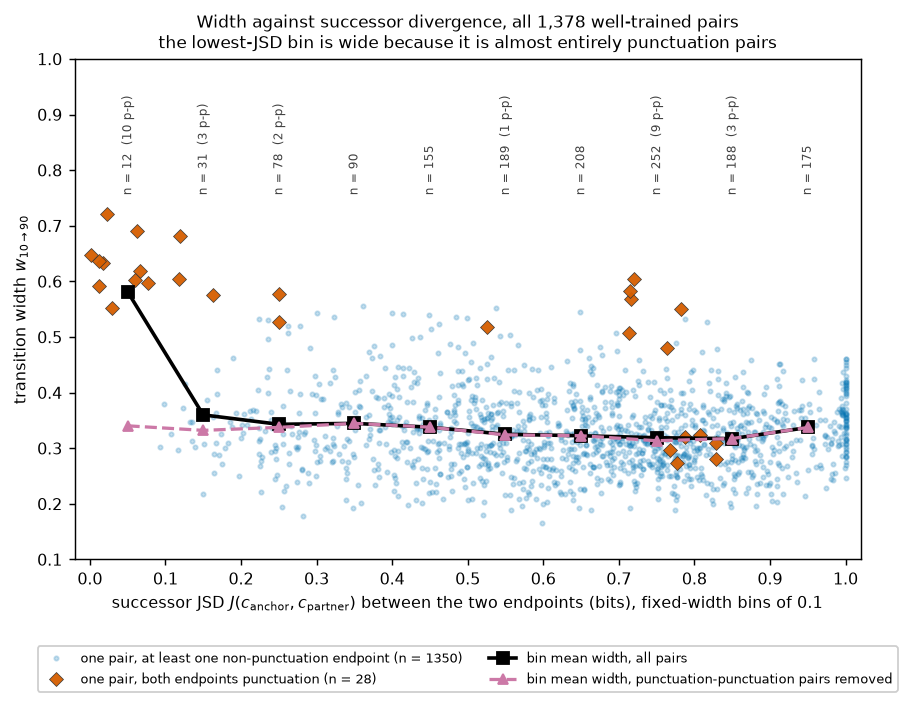
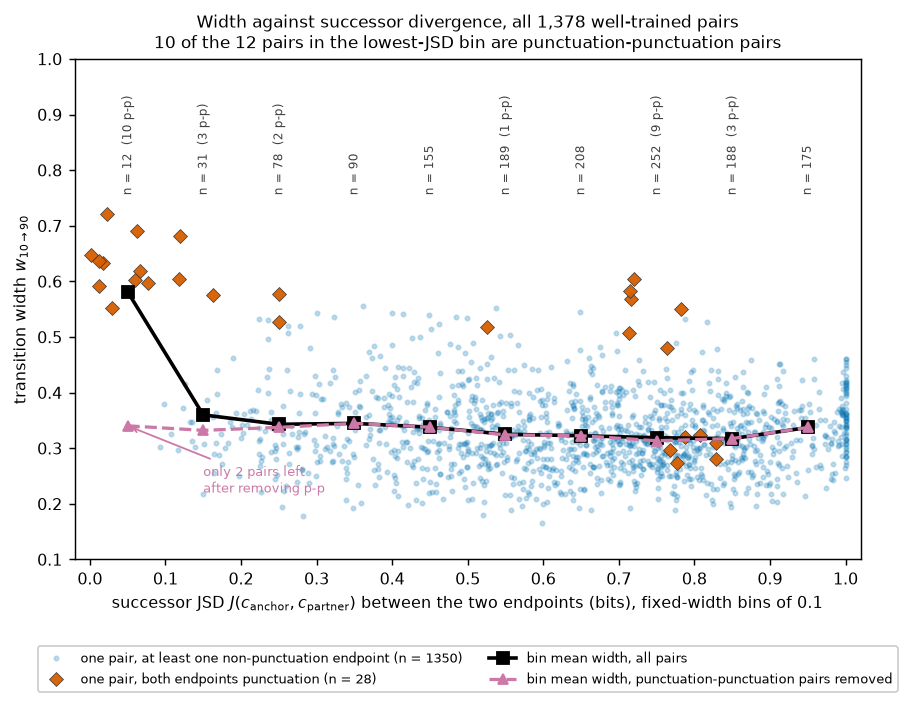
[dir24_char_gpt_groups_and_successor_jsd] autoloop iter 2026-09-09 16:39:56

Changed region(s): [[0.1846, 0.0312, 0.8615, 0.0936], [0.2154, 0.6553, 0.3385, 0.7177], [0.1846, 0.6241, 0.2154, 0.6553]]

diff --git a/dir24_char_gpt_groups_and_successor_jsd/experiments/analysis.py b/dir24_char_gpt_groups_and_successor_jsd/experiments/analysis.py
@@ -496,6 +496,12 @@ def main():
     for c, r in zip(ctr, fixed):
         lab = f"n = {r['n']}" + (f"  ({r['n_punct_punct']} p-p)" if r["n_punct_punct"] else "")
         ax.text(c, 0.755, lab, ha="center", va="bottom", fontsize=6.8, rotation=90, color="0.25")
+        n_ex = r["n"] - r["n_punct_punct"]
+        if r["mean_w_excl_pp"] is not None and n_ex <= 5:
+            ax.annotate(f"only {n_ex} pairs left\nafter removing p-p",
+                        xy=(c, r["mean_w_excl_pp"]), xytext=(c + 0.10, r["mean_w_excl_pp"] - 0.12),
+                        fontsize=7, color=CVD[2], ha="left",
+                        arrowprops=dict(arrowstyle="->", color=CVD[2], lw=1.0))
     ax.set_xticks(np.round(np.arange(0, 1.001, 0.1), 1))
     ax.set_xlim(-0.02, 1.02)
     ax.set_ylim(0.10, 1.00)
@@ -503,7 +509,7 @@ def main():
                   "endpoints (bits), fixed-width bins of 0.1")
     ax.set_ylabel("transition width $w_{10\\to90}$")
     ax.set_title("Width against successor divergence, all 1,378 well-trained pairs\n"
-                 "the lowest-JSD bin is wide because it is almost entirely punctuation pairs",
+                 "10 of the 12 pairs in the lowest-JSD bin are punctuation-punctuation pairs",
                  fontsize=9.5)
     ax.legend(fontsize=7.4, loc="upper center", bbox_to_anchor=(0.5, -0.16), ncol=2,
               framealpha=.95)

diff --git a/dir24_char_gpt_groups_and_successor_jsd/REPORT.md b/dir24_char_gpt_groups_and_successor_jsd/REPORT.md
@@ -2,32 +2,31 @@
 
 ## Summary
 
-With the prompt frozen, slide an internal activation vector from the state a model has for input X to
-the state for input Y. The output can sit still, then flip. How abruptly it flips says how much a
-nudge to an activation changes what the model does.
+Freeze the prompt and slide an internal activation vector from the state a model holds for input X to
+the state for input Y: the output sits still, then flips. How abruptly it flips says how much a nudge to
+an activation changes what the model does.
 
 On one small character-level GPT trained on Shakespeare we ask two questions. **First:** with one
 endpoint fixed to a letter, is the switch width organised by what *kind* of character sits at the other
 endpoint (vowel, consonant, punctuation, whitespace)? **Second:** do endpoints followed by more different
-characters in the training text switch more narrowly?
-
-Both answers come from the raw pairwise measurements, before averaging.
+characters switch more narrowly? Both answers are read from the raw pairwise measurements, before
+averaging.
 
 ## Methods
 
-**Data and model.** A 12-block, 12-head decoder-only GPT (width 240, context 128, about 8.4M parameters)
-trained for next-character prediction on Tiny Shakespeare (1,115,394 characters, first 90% for
-training), at step 30,000. Widths come from a stored sweep in `../dir13_plateau_on_grok_gpt`
-(commit `01d2501`), re-validated in `RESULTS.md` section 1.
+**Data and model.** A 12-block, 12-head decoder-only GPT (width 240, context 128, 8.4M parameters)
+trained for next-character prediction on Tiny Shakespeare (1,115,394 characters, 90% train split), at
+step 30,000. Widths come from a stored sweep in `../dir13_plateau_on_grok_gpt`, revalidated in
+`RESULTS.md` section 1.
 
-**Interpolation and transition width.** Every measurement compares two characters, $c_{\mathrm{anchor}}$
-and $c_{\mathrm{partner}}$. We run the prompt `"The house was "` (trailing space included) followed by one
-character, then the other, and take the residual stream at the final position after block 0. The two
-vectors are blended along a norm-preserving spherical path in 50 steps indexed by $t$ ($t=0$ = anchor,
-$t=1$ = partner) and patched back in; we read the logits $z(t)$ and ask how far the *output* has moved:
+**Interpolation and transition width.** Each measurement compares two characters, $c_{\mathrm{anchor}}$
+and $c_{\mathrm{partner}}$. For each we run the prompt `"The house was "` plus that character and take
+the residual stream at the last position after block 0. The two vectors are blended along a
+norm-preserving spherical path in 50 steps indexed by $t$ ($t=0$ anchor, $t=1$ partner) and patched back
+in; the logits $z(t)$ say how far the output has moved:
 
 ```math
-d(t)=\frac{\lVert z(t)-z(0)\rVert_2}{\lVert z(t)-z(0)\rVert_2+\lVert z(t)-z(1)\rVert_2}.
+d(t)=\frac{\|z(t)-z(0)\|_2}{\|z(t)-z(0)\|_2+\|z(t)-z(1)\|_2}.
 ```
 
 $d=0$ means the output still matches the anchor, $d=1$ the partner. The **transition width** is the span
@@ -37,76 +36,74 @@ of $t$ over which $d$ climbs from 0.1 to 0.9, read off a monotone (isotonic) fit
 w(c_{\mathrm{anchor}},c_{\mathrm{partner}})=t(d=0.9)-t(d=0.1).
 ```
 
-Small $w$ means an abrupt switch: an output tracking the state proportionally would give $w=0.8$,
-whereas the median here is 0.320 (Figure 1). $w$ is symmetric.
+Small $w$ means an abrupt switch: a proportional output would give $w=0.8$, whereas the median here is
+0.320 (Figure 1). $w$ is symmetric.
 
 ![interpolation curves](plots/fig1_width_definition.png)
 
-**Figure 1.** The transition width. x: interpolation position $t$, anchor at 0, partner at 1; y: output
-distance $d(t)$. Three pairs (solid, dashed, dash-dotted, labelled with their widths), the median over
-all 1,378 pairs (thick gray), and the straight line $w=0.8$ (dotted).
+**Figure 1.** The transition width. x: interpolation position $t$ (anchor 0, partner 1); y: output
+distance $d(t)$. Three pairs (solid, dashed, dash-dotted, labelled with their widths), the all-pair
+median (thick gray), the proportional line $w=0.8$ (dotted).
 
 **Which characters we use: 65, then 53, then 43.** The vocabulary has 65 characters. Rare characters have
-unusually wide transitions, so we keep the earlier direction's frozen threshold of 1,000 training-split
-occurrences; 53 pass and we call these *well-trained*. Those 53 give the 1,378 pairs used for question 2.
-Question 1 needs a letter endpoint: 43 of the 53 are letters, each serving in turn as a fixed **anchor**
-against the other 52 well-trained characters, its **partners**.
+unusually wide transitions, so we keep the earlier threshold of 1,000 training-split occurrences;
+the 53 that pass we call *well-trained*, giving the 1,378 pairs for question 2. Question 1 needs a letter
+endpoint: 43 of the 53 are letters, each in turn a fixed **anchor** against the other 52 well-trained
+characters, its **partners**.
 
-**Anchors and class medians, with a worked example.** Partners are sorted into six classes fixed before
-any analysis: lower-case vowels, lower-case consonants, upper-case vowels, upper-case consonants,
-punctuation and digits, and whitespace — surface classes of the character, not learned features. A
-*class-level median* summarises several separate measurements. With `t` as the anchor, its value for the
-lower-case-vowel class is
+**Anchors and class medians, with a worked example.** Partners are sorted into six surface classes of the
+character — fixed before analysis, not learned: lower-case vowels, lower-case consonants, upper-case
+vowels, upper-case consonants, punctuation and digits, whitespace. A *class-level median* summarises
+several separate measurements. With `t` as the anchor, its value for the lower-case-vowel
+class is
 
 ```math
 \mathrm{median}\lbrace w(\texttt{t},\texttt{a}),\, w(\texttt{t},\texttt{e}),\, w(\texttt{t},\texttt{i}),\, w(\texttt{t},\texttt{o}),\, w(\texttt{t},\texttt{u})\rbrace.
 ```
 
 The model never interpolates from `t` towards a "lower-case-vowel representation". It performs five
-separate character-to-character interpolations — `t`→`a`, `t`→`e`, `t`→`i`, `t`→`o`, `t`→`u` — whose five
-widths we summarise with a median, one number per class. Because a median can hide its underlying
-values, Result 1 shows the individual measurements first.
+separate character-to-character interpolations — `t`→`a`, `t`→`e`, `t`→`i`, `t`→`o`, `t`→`u` — whose
+widths we summarise with a median, one number per class.
 
-**Successor divergence.** Question 2 needs a character property from the corpus, not the model, so we use
-what follows it. Counting character bigrams in the training split without smoothing gives
-$P(y \mid c)$, the distribution of the character right after `c`. We compare two characters'
-distributions with the base-2 Jensen–Shannon divergence, $m$ their average:
+**Successor divergence.** Question 2 needs a character property defined by the corpus alone, so we use
+what follows each character. Unsmoothed character-bigram counts on the training split give
+$P_c$, the distribution of the character right after `c`. We compare two such distributions with the
+base-2 Jensen–Shannon divergence, with $m$ their average and $D_{\mathrm{KL}}$ the Kullback–Leibler
+divergence:
 
 ```math
-J(c_{\mathrm{anchor}},c_{\mathrm{partner}})=\tfrac{1}{2}D_{\mathrm{KL}}\big(P(\cdot \mid c_{\mathrm{anchor}})\,\Vert\,m\big)+\tfrac{1}{2}D_{\mathrm{KL}}\big(P(\cdot \mid c_{\mathrm{partner}})\,\Vert\,m\big).
+J(c_{\mathrm{anchor}},c_{\mathrm{partner}})=\tfrac{1}{2}D_{\mathrm{KL}}(P_{c_{\mathrm{anchor}}}\Vert m)+\tfrac{1}{2}D_{\mathrm{KL}}(P_{c_{\mathrm{partner}}}\Vert m).
 ```
 
-$J=0$ bits means the two characters are followed by the same mix of characters, $J=1$ bit that their
-successors never overlap. Estimated on each half of the training split, the pair values agree at Spearman
-rank correlation 0.95 (`RESULTS.md` section 3).
+$J=0$ bits means the two characters are followed by the same mix, $J=1$ bit that their successors never
+overlap. Estimated separately on each half of the training split, pair values agree at rank correlation
+0.95 (`RESULTS.md` section 3).
 
 ## Results
 
 ### 1. Raw widths show class structure; the class median is only sometimes representative
 
 Figure 2 shows every measurement behind question 1: one cell per pair, no averaging, columns grouped by
-class so each block can be inspected.
+class.
 
 ![pairwise width heatmap](plots/fig2_width_heatmap.png)
 
 **Figure 2.** Left: raw transition width for every measured pair. x: the 53 well-trained partners,
 grouped into the six classes (black separators, names above), alphabetical within class; y: the 43
-letter anchors, grouped the same way; colour: $w$, dark blue = abrupt, yellow = gradual, white =
-self-pair. Right, same data: x: an anchor's median width over its partners in a class, y: the six
-classes; one point per anchor, boxes give quartiles.
+letter anchors, grouped likewise; colour: $w$, dark blue = abrupt, yellow = gradual, white = self-pair.
+Right, summarised: x: an anchor's median width in a class; y: the six classes; one point per anchor,
+boxes give quartiles.
 
-The lower-vowel and whitespace columns are dark for almost every anchor and the upper-consonant block is
-brightest, so the class ordering in the right-hand panel is visible in the raw cells:
-lower-case vowels are narrowest (0.270 averaged over anchors) and upper-case consonants widest (0.356),
-a gap of 0.087 (Table 1).
+Lower-vowel and whitespace columns are dark for almost every anchor, the upper-consonant block
+brightest, so the right panel's ordering is visible in the raw cells: lower-case vowels narrowest (0.270
+averaged over anchors), upper-case consonants widest (0.356), a gap of 0.087 (Table 1). The tendency is
+broad — 38 of 43 anchors put lower-case vowels below upper-case consonants.
 
-The heatmap also shows where that median stops being fair. The lower-vowel and whitespace
-blocks look flat and are: within one anchor their raw widths span an interquartile range of only 0.021
-and 0.020 on average. The large letter blocks are not flat — 0.051 and 0.063, as large as the whole
-0.087 gap between the extreme class averages. **For the two consonant
-classes the median hides substantial pair-to-pair variation and should not be read as describing a
-typical pair.** The variation runs down columns, which is why the blocks look striped: `s` averages 0.260
-over the 43 anchors, `v` 0.386.
+The heatmap also shows where that median stops being fair. Within one anchor, raw widths span an
+interquartile range of only 0.021 (lower vowels) and 0.020 (whitespace), but 0.051 and 0.063 in the two
+consonant blocks — as large as the 0.087 gap between the extreme class averages. **For the consonant
+classes the median hides substantial pair-to-pair variation and should not be read as a typical pair.**
+The variation runs down columns, striping those blocks: `s` averages 0.260 over the anchors, `v` 0.386.
 
 | partner class | members | mean class median $w$ | mean within-anchor IQR of raw $w$ |
 |---|---|---|---|
@@ -117,51 +114,48 @@ over the 43 anchors, `v` 0.386.
 | punctuation & digits | 8 | 0.331 | 0.050 |
 | upper consonant | 16 | 0.356 | 0.063 |
 
-**Table 1.** Column 3 averages the per-anchor class median over the 43 anchors, narrowest first;
-column 4 averages the interquartile range of the *raw* widths in that block, so small column 4 means the
-median represents its cells.
-
-The ordering is not driven by a few letters: 38 of 43 anchors put lower-case vowels below upper-case
-consonants. Agreement statistics and a frequency control are in `RESULTS.md`.
+**Table 1.** Column 3 averages each anchor's class median over the 43 anchors, narrowest first; column 4
+averages the interquartile range of the *raw* widths in that block, so small values mean the median
+represents its cells. Agreement statistics and a frequency control: `RESULTS.md` section 2.
 
 ### 2. Successor divergence: flat except for a punctuation cluster at the bottom
 
-Figure 3 plots all 1,378 pairs, averaged in fixed-width divergence bins of 0.1 so the few
-near-zero-divergence pairs are not absorbed into a larger group.
+Figure 3 plots all 1,378 pairs in fixed-width divergence bins of 0.1, so the few near-zero-divergence
+pairs keep a bin of their own.
 
 ![width against successor divergence](plots/fig3_jsd_vs_width.png)
 
-**Figure 3.** x: successor divergence $J$ between the endpoints in bits, in fixed bins of 0.1; y:
-transition width $w$. Faint dots: pairs with at least one non-punctuation endpoint (n = 1,350). Diamonds:
-both endpoints punctuation (n = 28). Solid line with squares: bin mean width, all pairs; dashed line with
-triangles: the same with punctuation–punctuation pairs removed. Rotated text per bin: pair count, and how
-many are punctuation–punctuation ("p-p").
+**Figure 3.** x: successor divergence $J$ between endpoints (bits), fixed bins of 0.1; y: transition
+width $w$. Faint dots: pairs with at least one non-punctuation endpoint (n = 1,350); diamonds: both
+endpoints punctuation (n = 28). Solid line, squares: bin mean width, all pairs; dashed line, triangles:
+the same with punctuation–punctuation pairs removed, leaving 2 pairs in the lowest bin (annotated).
+Rotated text: pairs per bin, with the punctuation–punctuation count ("p-p").
 
 From 0.1 upward the bin means barely move: each lies between 0.317 and 0.360, a range of 0.04 against a
-pair-to-pair spread near 0.2. The lowest bin is the exception — below $J=0.1$ there are 12 pairs with
-mean width 0.581, nearly double the rest. (Bins 1–3, n = 12 / 31 / 78, means 0.581 / 0.360 / 0.343,
-recomputed here, match the review's values.)
+pair-to-pair spread near 0.2. The lowest bin is the exception — below $J=0.1$ sit 12 pairs of mean width
+0.581, nearly double the rest. (Recomputed here, bins 1–3 give n = 12 / 31 / 78 and means
+0.581 / 0.360 / 0.343, matching the review.)
 
-That bin is not a general low-divergence effect. Ten of its 12 pairs are punctuation-to-punctuation —
-every pair drawn from `! , . : ; ?` — as expected, since punctuation marks are followed by similar things
-and so sit at low $J$ by construction. Those pairs are wide *wherever* they fall on the x-axis: mean
-width 0.531 over all 28, against 0.327 for the other 1,350. The two non-punctuation pairs in the lowest
-bin, `g`–`t` and `h`–`m`, have ordinary widths of 0.302 and 0.379, and removing the
-punctuation–punctuation pairs flattens the lowest bin to 0.340 (dashed line). The excess is a
-character-class cluster, not an effect of low divergence.
+Ten of those 12 pairs are punctuation-to-punctuation, drawn from `! , . : ; ?` — expected, since
+punctuation marks are followed by similar things and so sit at low $J$ by construction. They are wide
+*wherever* they fall on the x-axis: mean width 0.531 over all 28, against 0.327 for the other 1,350. The
+bin's two other pairs, `g`–`t` and `h`–`m`, have ordinary widths (0.302, 0.379), and removing the
+punctuation–punctuation pairs flattens the bin to 0.340 — an average over two pairs, so weak by itself.
+The wide lowest bin may therefore be a punctuation cluster rather than a general effect of low
+divergence.
 
-Holding the letter anchor fixed gives a second view, free of between-anchor differences. Done that way,
-36 of the 43 anchors show the expected direction — more different successors, slightly narrower
-transitions — but the trend is weak and explains little of the variation, as Figure 3's scatter shows.
-Pooled over pairs it vanishes, the between-anchor component cancelling it. Rank statistics are in
-`RESULTS.md`.
+Holding the letter anchor fixed removes between-anchor differences. Done that way, 36 of the 43 anchors
+show the expected direction — more different successors, slightly narrower transitions — but the trend
+is weak and explains little of an anchor's variation. Pooled over all pairs it disappears; a weak,
+non-significant trend of opposite sign between anchors may offset it. Per-anchor values and rank
+statistics are in `RESULTS.md` section 4.2 and its Figure 3.
 
 ## Conclusion
 
 **Character classes (question 1).** Figure 2 shows a genuine class tendency, consistent across anchors,
-but the class median is a fair summary only for the small, homogeneous classes: in the consonant blocks
-pair-to-pair variation within one anchor is as large as the gap between the extreme class averages
-(Table 1); the individual partner character carries as much structure as the class does.
+but the class median summarises fairly only the small, homogeneous classes: in the consonant blocks
+pair-to-pair variation within an anchor matches the gap between the extreme class averages (Table 1), so
+the partner character carries as much structure as its class.
 
 **Successor divergence (question 2).** Across most of the divergence range, transition width changes
 little. Pairs with divergence below 0.1 have substantially wider transitions, but this small group of 12
@@ -170,5 +164,5 @@ not find a general monotonic relationship between successor divergence and trans
 fixed letter anchor, larger successor divergence is weakly associated with narrower transitions, but the
 trend explains little of the variation.
 
-**What this does not show.** Nothing here is causal: we did not intervene on successor statistics or
-class membership. All of it is one model at one checkpoint, prompt, block and position.
+Nothing here is causal — we intervened on neither successor statistics nor class membership — and this is
+one model at one checkpoint, prompt, block and position.

diff --git a/dir24_char_gpt_groups_and_successor_jsd/CHANGELOG.md b/dir24_char_gpt_groups_and_successor_jsd/CHANGELOG.md
@@ -61,3 +61,28 @@ RESULTS.md and every REPORT*.md stay current-best with no history.
 **results/analysis.json**: added `s2_classes.raw_block_spread`, `s2_classes.partner_mean_w_over_anchors`,
 `s4_jsd_vs_width.fixed_width_bins`, `.low_jsd_bin_pairs` and `.punct_punct`. All previously reported
 numbers are unchanged.
+
+## 2026-09-09 — revision after the content review rejected the first feedback pass
+
+Four rejection points, all localized to `REPORT.md` and `plots/fig3_jsd_vs_width.png`; no new experiment,
+no new metric, and no change to any number.
+
+- **Word budget.** `REPORT.md` curated from 1,702 to 1,592 words (limit 1,600, counted by
+  `workflow.report_counts`; `wc -w` reads lower). Cuts were compression, not deletion of evidence: the
+  interpolation paragraph, the three figure captions, Table 1's caption and both Results narratives were
+  tightened, and the `\lVert…\rVert` / `\big(…\big)` markup was replaced by `\|…\|` / plain parentheses.
+  Every mandated sentence (the `t` worked example, the 65/53/43 accounting, the two Conclusion passages)
+  is unchanged.
+- **Unhedged mechanism.** Result 2 said "Pooled over pairs it vanishes, the between-anchor component
+  cancelling it", resting on a ρ = +0.255, p = 0.10 correlation that `RESULTS.md` calls non-significant.
+  Now: "Pooled over all pairs it disappears; a weak, non-significant trend of opposite sign between
+  anchors may offset it."
+- **Wrong figure pointer.** The within-anchor claim cited "Figure 3's scatter", which is pooled and
+  cannot show within-anchor structure. It now points to `RESULTS.md` section 4.2 and its Figure 3.
+- **Overstated low-JSD claim.** Figure 3's title changed from "the lowest-JSD bin is wide because it is
+  almost entirely punctuation pairs" to "10 of the 12 pairs in the lowest-JSD bin are
+  punctuation-punctuation pairs"; the body changed from "The excess is a character-class cluster, not an
+  effect of low divergence" to "The wide lowest bin may therefore be a punctuation cluster rather than a
+  general effect of low divergence"; and the two-pair basis of the dashed line's lowest point is now
+  annotated on the figure ("only 2 pairs left after removing p-p") and stated in `REPORT.md` Result 2 and
+  `RESULTS.md` section 4.1.

diff --git a/dir24_char_gpt_groups_and_successor_jsd/JOURNAL.md b/dir24_char_gpt_groups_and_successor_jsd/JOURNAL.md
@@ -104,3 +104,29 @@ figures the feedback refers to.
 state set to `review_pending`; no `STOP` written, since `human_feedback.txt` is still unaddressed.
 
 On track? yes — 48/48 checklist items done, `python3 ../check_render.py REPORT.md RESULTS.md` passes.
+
+## 2026-09-09 — repaired the four content-review rejections (no new science)
+
+**Did.** (1) Found the exact word-count rule the wrapper applies (`workflow.report_counts`,
+`\b[\w]+(?:[’'-][\w]+)*\b`), which counts LaTeX identifiers and numbers and read 1,702 where `wc -w` read
+1,600 — that mismatch is why the first pass looked compliant. Curated `REPORT.md` to 1,592 by that same
+counter. (2) Hedged the between-anchor explanation in Result 2. (3) Repointed the within-anchor claim from
+REPORT Figure 3 (pooled) to `RESULTS.md` 4.2 and its Figure 3. (4) Softened the low-JSD claim to "may
+therefore be", removed "because" from the Figure 3 title, and annotated the dashed line's lowest point as
+resting on 2 pairs (also stated in `RESULTS.md` 4.1). Re-ran `experiments/analysis.py` to regenerate the
+figures; all stored numbers are identical.
+
+**Learned.** Check a declared budget with the project's own checker, not `wc`: a report can be 110 words
+over while `wc -w` says it is exactly at the limit. Replacing `\lVert`/`\rVert` and `\big(` markup inside
+math fences removed 16 counted words with no visible change to the rendered equations.
+
+**Assumptions / decisions (loop mode).** Kept Figure 1 rather than deleting it to buy ~40 words, because
+the feedback refers to the heatmap as Figure 2 and the divergence plot as Figure 3; renumbering would
+break those references. Kept the `n = 2` caveat in both deliverables rather than only in the figure, since
+the report must stand alone.
+
+**Next step.** None from the plan. Manifest set back to `review_pending`; no `STOP` while
+`human_feedback.txt` is unaddressed.
+
+On track? yes — `python3 ../check_render.py REPORT.md RESULTS.md` passes and
+`workflow.report_budget_failures` returns no failures.

diff --git a/dir24_char_gpt_groups_and_successor_jsd/PLAN.md b/dir24_char_gpt_groups_and_successor_jsd/PLAN.md
@@ -205,8 +205,9 @@ End each `JOURNAL.md` entry with:
 
 ## Current status
 
-Done, and revised once for `human_feedback.txt` (all 48 checklist items; manifest state
-`review_pending`). `experiments/analysis.py` (CPU, no model loaded) validated the stored dir13 sweep,
+Done, and revised twice for `human_feedback.txt` (all 48 checklist items; manifest state
+`review_pending` after repairing the content review's four rejection points: report word budget, an
+unhedged between-anchor explanation, a wrong figure pointer, and an overstated low-divergence claim). `experiments/analysis.py` (CPU, no model loaded) validated the stored dir13 sweep,
 reproduced the letter-anchor class analysis over all 43 well-trained letters, computed corpus successor
 JSD with a split-half reliability check, and related JSD to width in fixed-width bins, pooled, and within
 fixed anchors. Answers now stated from the raw pairwise data first: (1) the 43 x 53 width heatmap shows a
@@ -216,8 +217,9 @@ spread; (2) no general monotonic JSD-width relationship — fixed-width bin mean
 JSD 0.1 to 1.0, and the wide 0.0-0.1 bin (n = 12, mean 0.581) is 10/12 punctuation-punctuation pairs,
 which average 0.531 at every JSD; within a fixed anchor the trend is negative but weak. The rank
 statistics (W = 0.424, pooled rho = -0.064, per-anchor median rho = -0.205) now live in `RESULTS.md`
-only. `REPORT.md` (1,600 words by wc; 3 figures, 1 table) and `RESULTS.md` are current-best;
-`python3 ../check_render.py REPORT.md RESULTS.md` passes.
+only. `REPORT.md` (1,592 words by `workflow.report_counts`, the wrapper's own counter; 3 figures, 1
+table) and `RESULTS.md` are current-best; `python3 ../check_render.py REPORT.md RESULTS.md` passes and
+`workflow.report_budget_failures` is empty.
 
 ## Next step
 

diff --git a/dir24_char_gpt_groups_and_successor_jsd/RESULTS.md b/dir24_char_gpt_groups_and_successor_jsd/RESULTS.md
@@ -138,7 +138,9 @@ digit passes the 1,000-occurrence threshold. `REPORT.md` Figure 3 plots these bi
 
 The first three rows reproduce the values quoted in the review (n = 12 / 31 / 78, mean 0.581 / 0.360 /
 0.343). Once the punctuation–punctuation pairs are removed the last column is flat across the whole
-range (0.313–0.345), so the wide lowest bin is a punctuation cluster rather than a low-divergence effect.
+range (0.313–0.345); its lowest entry averages only 2 pairs, so the evidence that the wide lowest bin is
+a punctuation cluster rather than a low-divergence effect rests mainly on the other rows and on the
+punctuation–punctuation widths below.
 The 28 punctuation–punctuation pairs have mean `w` 0.531 (median 0.577) against 0.327 (median 0.319) for
 the other 1,350 pairs, and they occur at divergences from 0.002 to 0.83.
 
